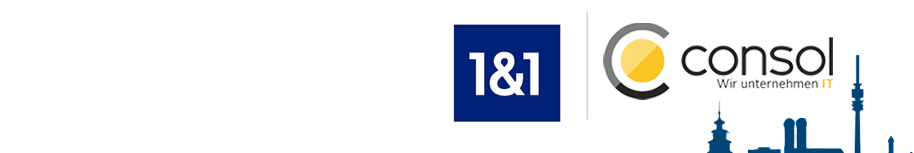
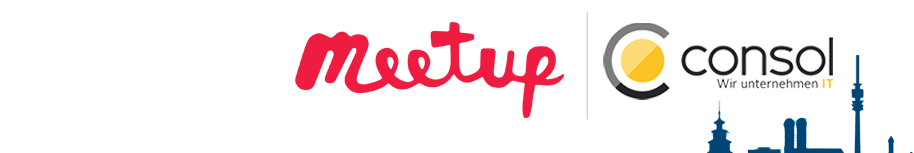
update for agile testing meetup

Changed region(s): [[0.3063, 0.1307, 0.6433, 0.8105]]

diff --git a/index.html b/index.html
@@ -212,10 +212,12 @@ docker run -it -e DISPLAY=$DISPLAY -v /tmp/.X11-unix:/tmp/.X11-unix:rw rasch/ink
 # connect via URL: http://localhost:6911/vnc_auto.html?password=vncpassword
 docker run -it -p 5911:5901 -p 6911:6901 consol/ubuntu-xfce-vnc
 docker run -it -p 5912:5901 -p 6912:6901 consol/centos-xfce-vnc
+docker run -it -p 5913:5901 -p 6913:6901 consol/centos-icewm-vnc:dev
+docker run -it -p 5913:5901 -p 6914:6901 consol/centos-icewm-vnc:dev
 ```
             </div>
             <!-- @formatter:on-->
-            <div style="padding-top: 0.7em;">
+            <div style="padding-top: 0.1em;">
                 <img width="42%" style="vertical-align:top; margin-right: 0.5em" src="pics/inkscape.png">
                 <a target="_blank"
                    href="http://localhost:6911/vnc_auto.html?password=vncpassword">
@@ -872,20 +874,22 @@ sakuli-tests/execute_all_4_monitoring.sh
                 <tr>
                     <td/>
                     <td style="padding-left: 1.5em">
-                        <div style="padding-top: 0.7em"></div>
+                        <div style="padding-top: 0.5em"></div>
                         <a href="mailto:sakuli@consol.de">
                             <img src="pics/mail_logo.png" style="box-shadow: none; height: 1.3em">
                             <b>sakuli@consol.de</b>
                         </a>
-                        <!--<div style="padding-top: 0.2em"></div>-->
+                        <!--<div style="padding-top: 0.2em">-->
                         <a href="https://twitter.com/sakuli_e2e">
-                            <img src="pics/twitter_handle.png" style="padding-left:70px;box-shadow: none; height: 1em">
+                            <img src="pics/twitter_bird_logo_.png" style="padding-left:40px;box-shadow: none; height: 1em">
+                            <b>@sakuli_e2e</b>
                         </a>
+                        <!--</div>-->
 
-                        <div style="padding-top: 0.8em"></div>
+                        <div style="padding-top: 2em"></div>
                         <a href="https://www.informatik-aktuell.de/entwicklung/methoden/graphical-user-interface-gui-in-containern-testen.html"
                            target="_blank">
-                            <img src="pics/ia_artikel.png" style="margin-left:6px; padding: 6px" ; width="300 px">
+                            <img src="pics/ia_artikel.png" style="margin-left:6px; padding: 10px 22px 10px 22px;" ; width="600px">
                         </a>
                     </td>
                 </tr>

diff --git a/README.md b/README.md
@@ -1,6 +1,6 @@
 ![](pics/contarinerized-salkuli-docker.png)
 
-### Presentation: [Containerized End-2-End Testing](https://rawgit.com/toschneck/presentation/oop2017/index.html#/)
+### Presentation: [Containerized End-2-End Testing](https://rawgit.com/toschneck/presentation/agile-testing-meetup/index.html#/)
 <iframe width="854" height="480" src="./index.html" frameborder="0"></iframe>
 
 ### Example: [Sakuli Examples](https://github.com/consol/sakuli-examples)
